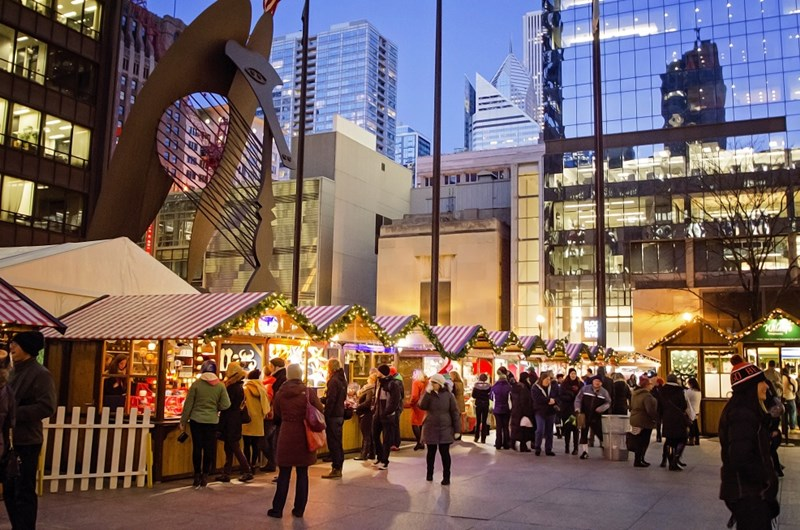
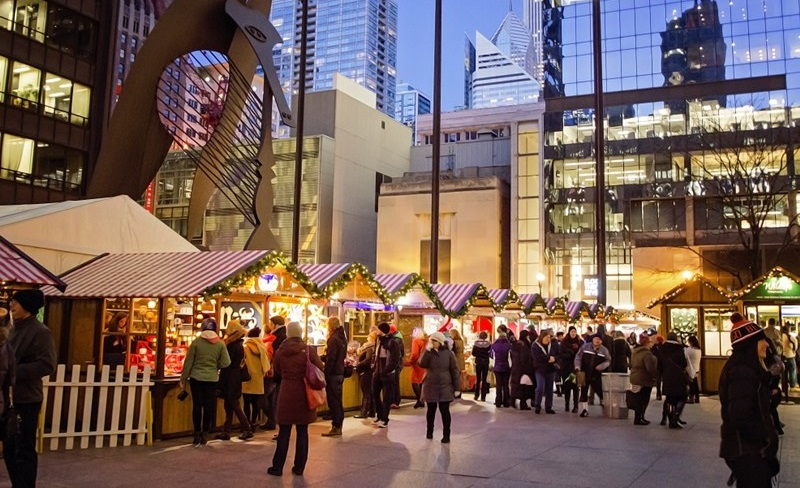
update

diff --git a/about.html b/about.html
@@ -64,7 +64,7 @@
 	<div class="container">
 		<div class="row centered mt mb">
 			<div class="col-lg-8 col-lg-offset-2">
-				<h2>How it Works</h2>
+				<h2>What is German Club</h2>
         <p>German Club is primarily a student driven club, meaning it's mostly the students who control the club.
         Activities tend to vary year by year, depending on student leadership. Posible activities include bowling with other clubs, visiting the Museum of Science and Industry and the Christkindlmarket in Chicago, as well as the Christmas Schooner.
       Herr Kohl, our West High German teacher, does not actually run the club; instead, he serves as an advisor and chaperon, allowing the students to set goals.</p>

diff --git a/index.html b/index.html
@@ -81,7 +81,7 @@
 				<img src="Images/subinside.jpg" class="img-responsive">
 			</div>
 			<div class="col-lg-4 col-md-4 col-sm-4 gallery">
-				<img src="Images/market.jpg" class="img-responsive">
+				<img height="215px" src="Images/market.jpg" class="img-responsive">
 			</div>
 			<div class="col-lg-4 col-md-4 col-sm-4 gallery">
 				<img src="Images/restaurant.jpg" class="img-responsive">
@@ -126,7 +126,7 @@
 
 				</div>
 				<div class="col-lg-4">
-	
+
 				</div>
 			</div>
 		</div>
